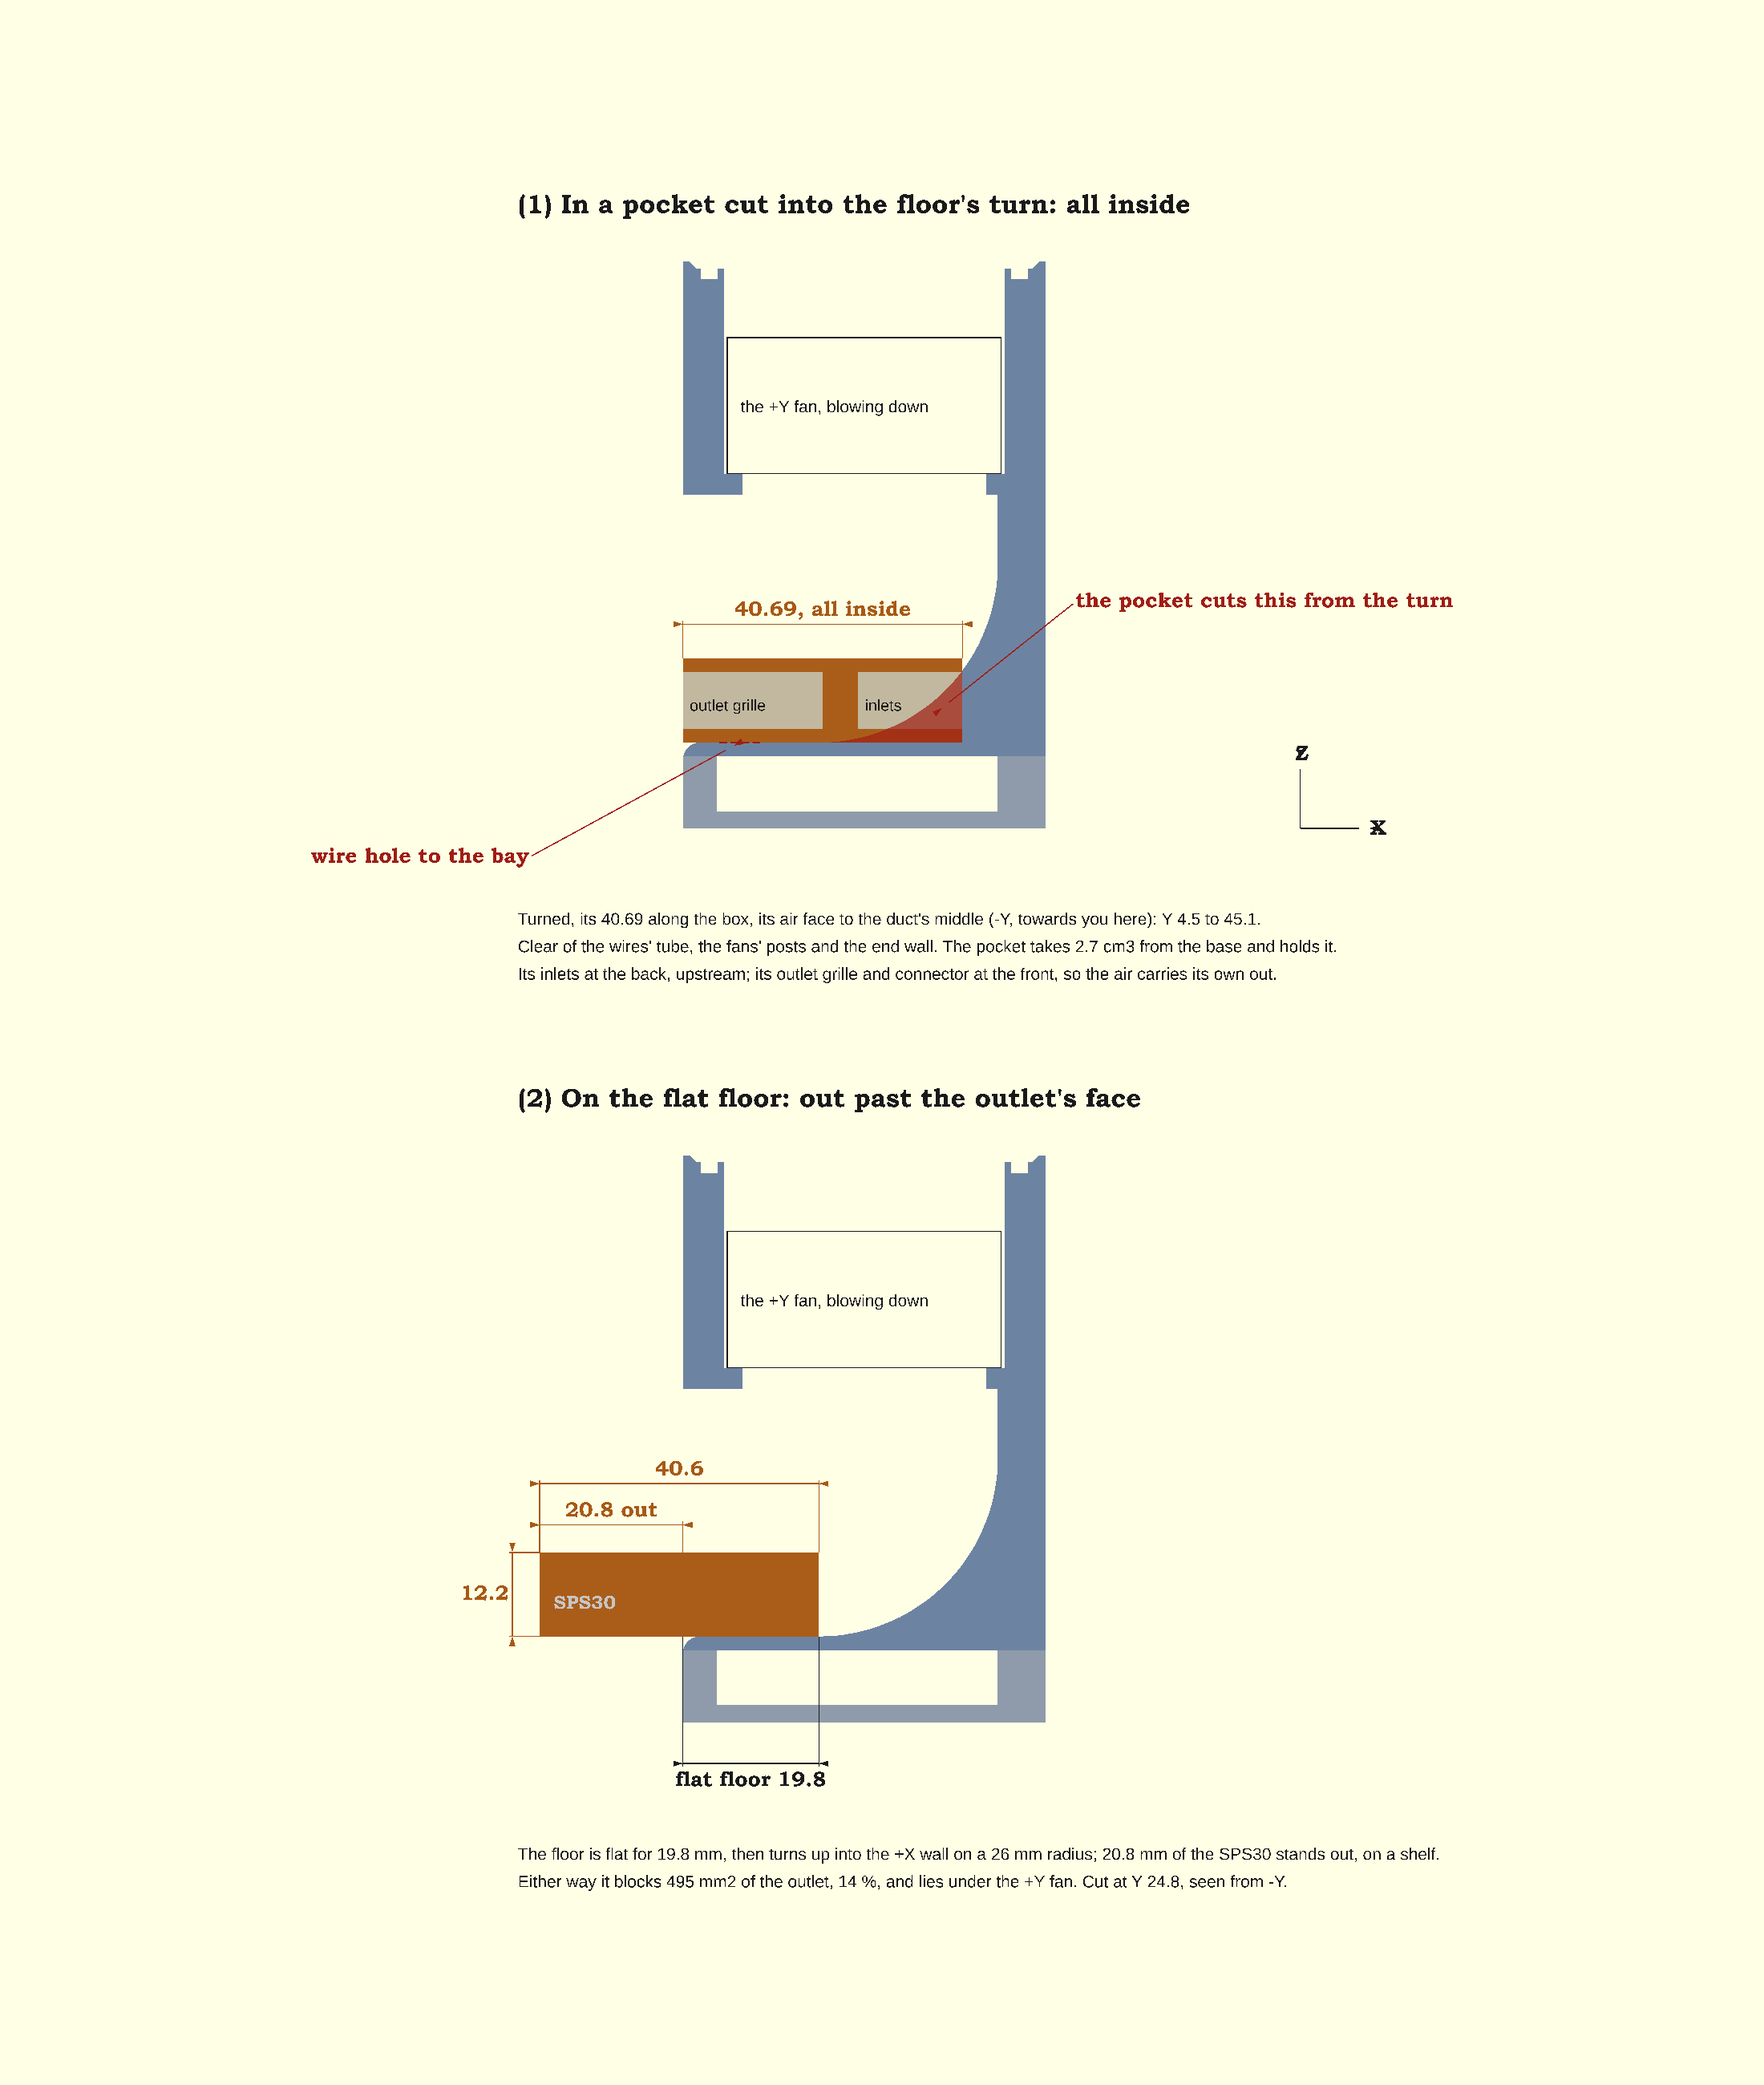
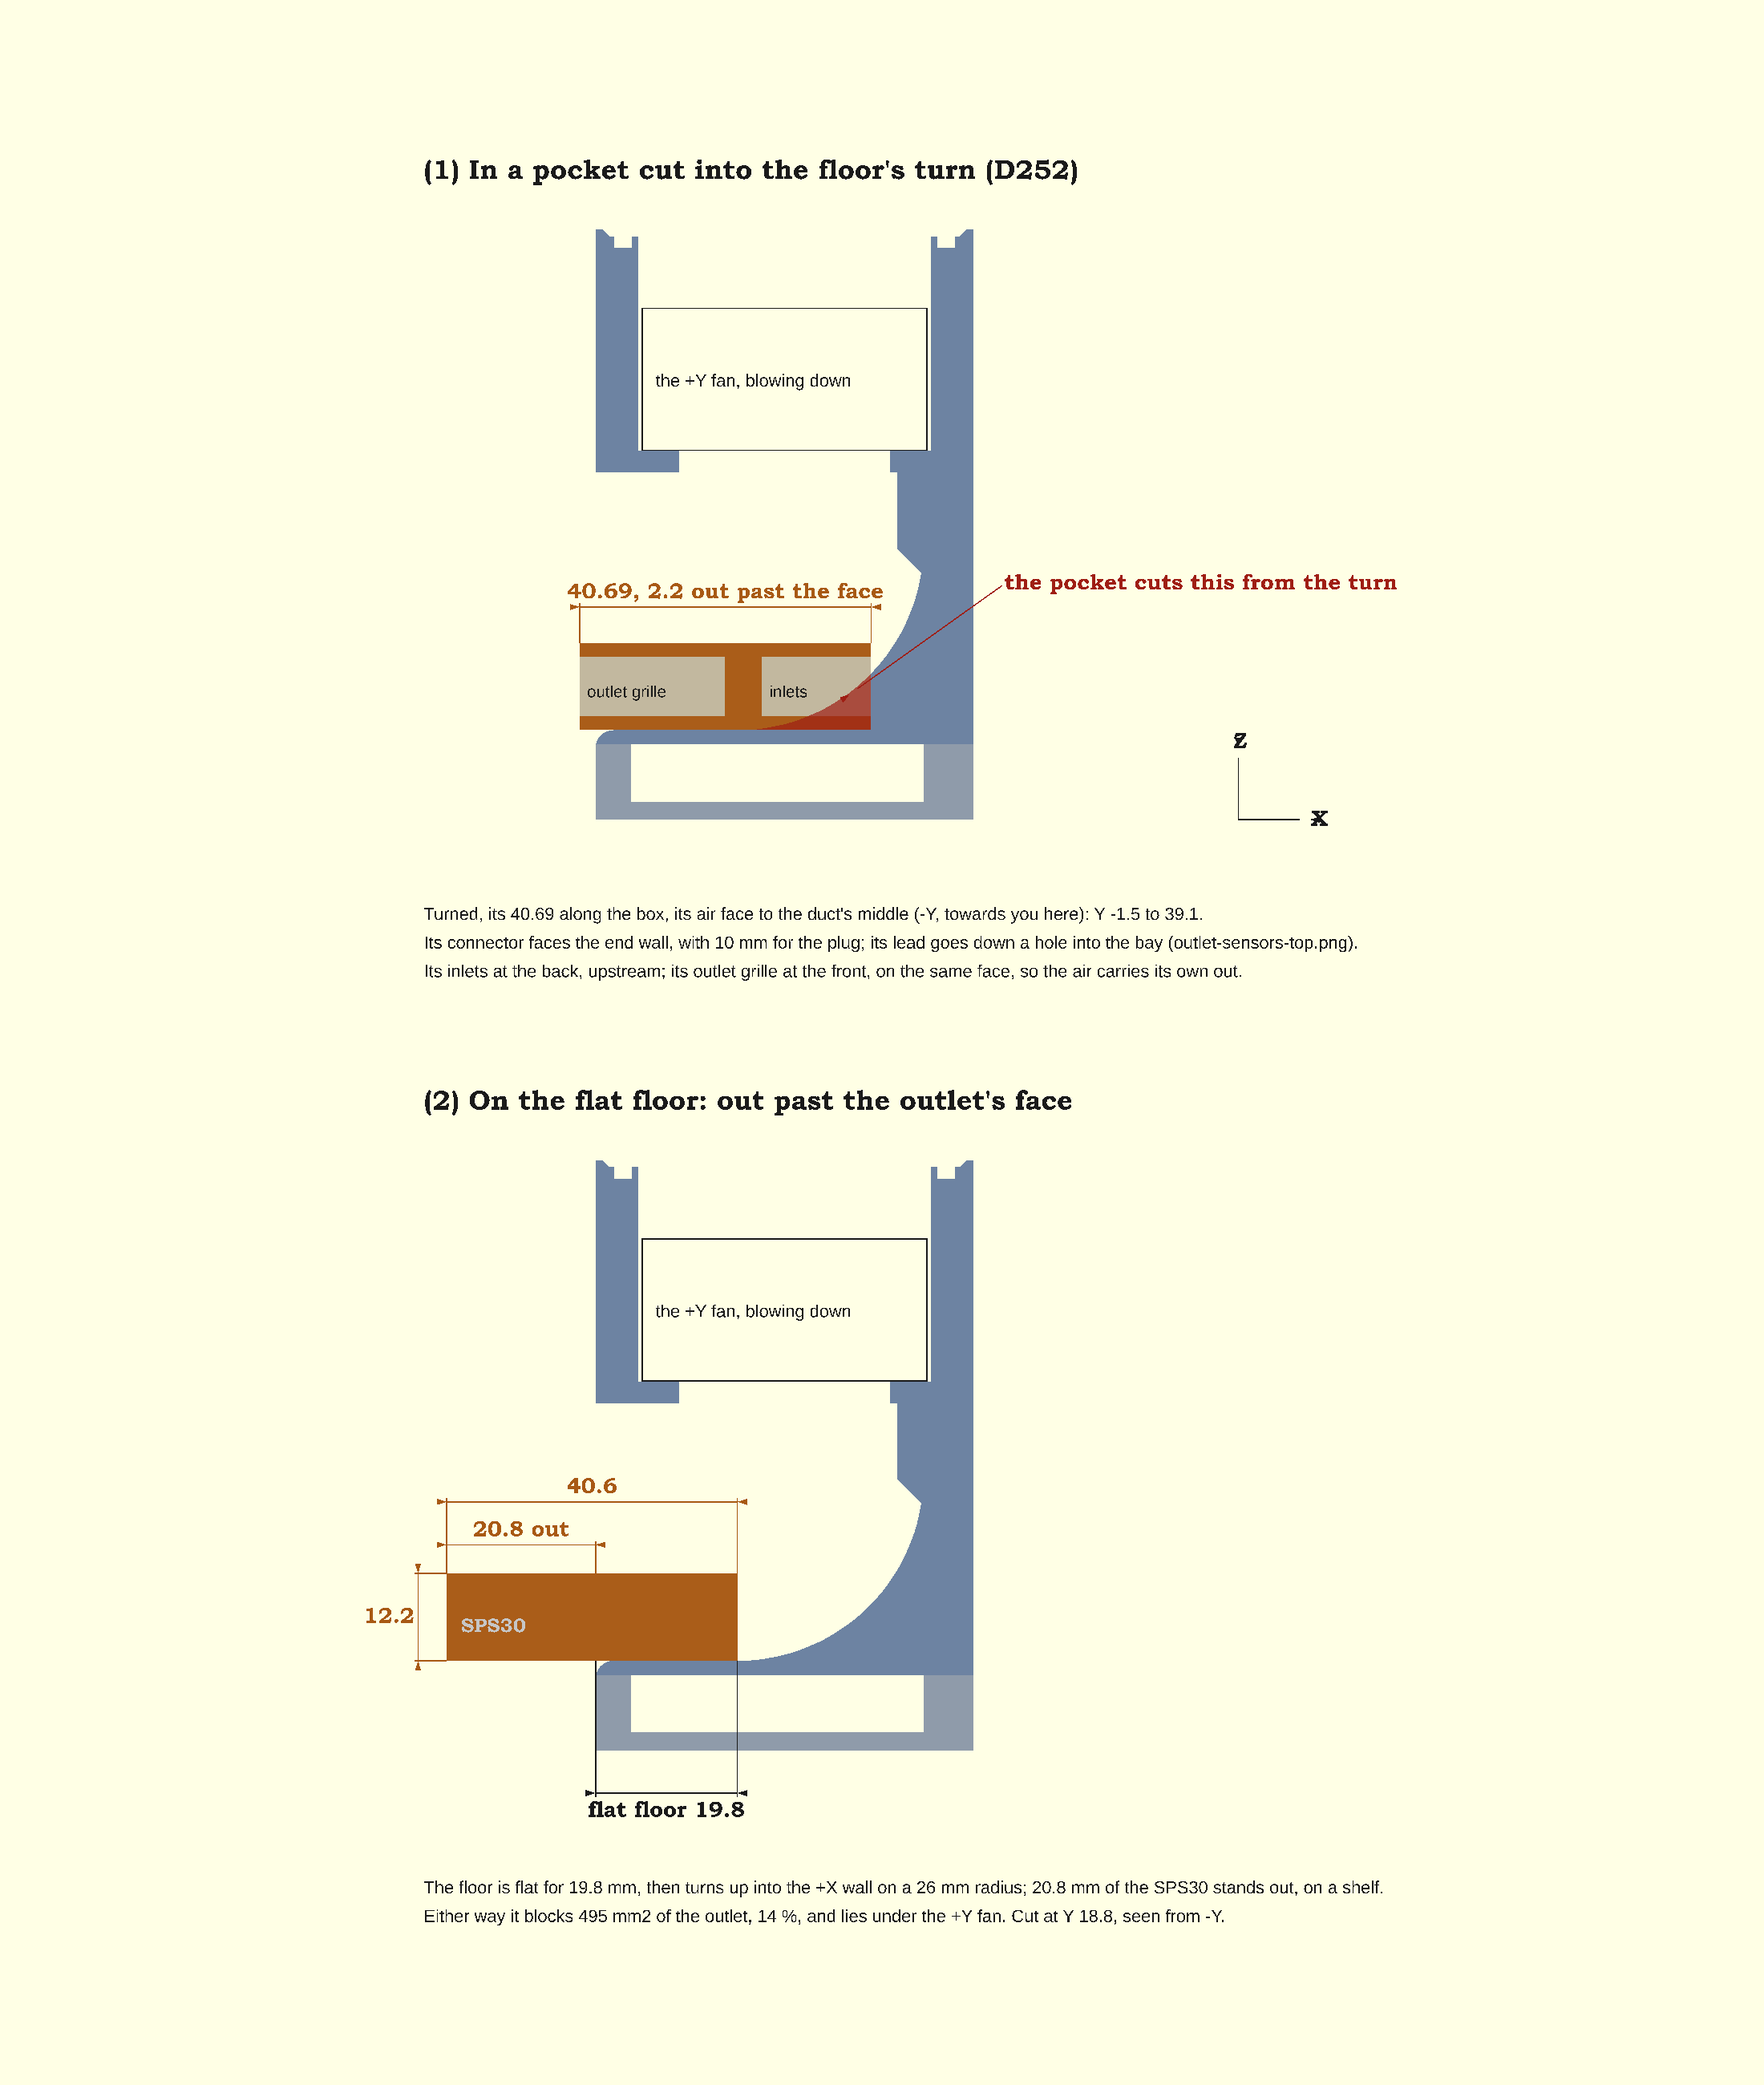
docs(bentobox): the SPS30's pocket, its openings, plug and lead hole

diff --git a/docs/bentobox-scrubber.md b/docs/bentobox-scrubber.md
@@ -167,14 +167,34 @@ the wires' grommet stands in the gap too. Above the fans there is 11.6 mm under 
 fans' intakes. The SGP41, 13.1 × 10.6 × 3.2, would fit there, but its four leads would need room in the grommet,
 which takes the fans' four.
 
-**The SPS30 goes on the outlet's floor, inside** (Alon, 14 Oct 2026: D247). The floor is flat for only 19.8 mm
-in from the outlet's face before it turns up into the +X wall on a 26 mm radius, and the SPS30 is 40.6 deep. So
-it either lies in a pocket cut into the turn, all inside - turned, its 40.69 along the box and its air face to the
-duct's middle, at Y 4.5 to 45.1, clear of the wires' tube, the fans' posts and the end wall, the pocket taking
-2.7 cm3 from the base - or it lies on the flat floor with 20.8 mm of it out past the face, on a shelf (D252).
-Either way it blocks 14 % of the outlet, under the +Y fan.
+**The SPS30 goes on the outlet's floor, inside, in a pocket** (Alon, 14 Oct 2026: D247, D252). The floor is flat
+for only 19.8 mm in from the outlet's face before it turns up into the +X wall on a 26 mm radius, and the SPS30 is
+40.6 deep, so the pocket is cut into the turn. Laid on the flat floor instead, 20.8 mm of it would stand out past
+the face, on a shelf. Either way it blocks 14 % of the outlet, under the +Y fan.
 
-![The base cut through the SPS30 and seen from the side, twice: the SPS30 in a pocket cut into the floor's turn, all inside, its inlets at the back and its outlet grille at the front; and on the flat floor, 20.8 mm of it out past the outlet's face](diagrams/bentobox/outlet-sensors-side.png)
+How it lies follows Sensirion's rules, as the [air-quality monitor](https://github.com/AlonRR/air-quality-monitor/blob/main/docs/design.md)
+lists them. Its two inlets and its outlet grille are all on one 40.69 x 12.2 face, the inlets at one end and the
+grille at the other; its connector is on the face opposite, near the outlet end, and the plugged lead needs about
+10 mm in front of it (the monitor's measurement).
+
+- **Label up**: one inlet wraps round onto the label face's edge, so that face stays open.
+- **Its openings face the duct's middle (-Y)**, into the moving air, with the inlets at the back, upstream, and the
+  grille at the front: the duct's air carries what the grille blows out away from the inlets. Sensirion's best is
+  openings facing down; that needs it on edge, 40.6 tall, and the duct is 36.
+- **Its connector faces the +Y end wall**, so the SPS30 sits towards the middle, Y -1.5 to 39.1, leaving the plug its
+  10 mm before the wall. All inside, at Y 4.5 to 45.1, the plug would have 4.3. Its back then has to clear the
+  fans' wires' tube, so it stands 2.2 mm out past the outlet's face.
+- **Its lead goes down a hole into the bay**, to the ESP32: 3 mm, at X -17 and Y 39.5, beside the plug and just
+  inside the bay's end.
+- Checked against the base: the SPS30 with 0.2 mm round it, and the plug's room, leave nothing with the wires' tube,
+  the fans' posts or the end wall, and the hole opens into the bay, not the tray; moved 0.5 mm into the tube, or the
+  hole 3.5 mm off the bay, each leaves something. The pocket and the plug's room take 2.0 cm3 from the base.
+- The duct's air past it: at the simulated 0.65 L/s, the outlet's mean is about 0.2 m/s, under Sensirion's 1 m/s.
+  Keep the ESP32 out from under it in the bay: Sensirion wants the sensor away from, and below, a warm board.
+
+![The SPS30 in its pocket, from above: its inlets and outlet grille on the edge facing the duct's middle, the duct's air running to the outlet, its plug on the opposite face with 10 mm of room, and its lead going down a hole into the bay](diagrams/bentobox/outlet-sensors-top.png)
+
+![The base cut through the SPS30 and seen from the side, twice: the SPS30 in a pocket cut into the floor's turn, its inlets at the back and its outlet grille at the front; and on the flat floor, 20.8 mm of it out past the outlet's face](diagrams/bentobox/outlet-sensors-side.png)
 
 ![The bottom pulled apart, from the outlet's side: the fan section, the screws, the base with a nut's pocket under each post, the tray under it, and its four screws](diagrams/bentobox/auto-bottom.png)
 
